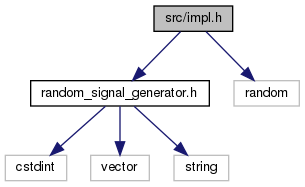
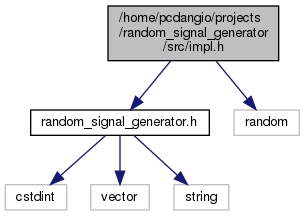
doc/utilities/random_signal_generator: updated documentation

diff --git a/doc/utilities/random_signal_generator/random__signal__generator_8h_source.html b/doc/utilities/random_signal_generator/random__signal__generator_8h_source.html
@@ -5,7 +5,7 @@
 <meta http-equiv="X-UA-Compatible" content="IE=9"/>
 <meta name="generator" content="Doxygen 1.8.13"/>
 <meta name="viewport" content="width=device-width, initial-scale=1"/>
-<title>random_signal_generator: include/random_signal_generator.h Source File</title>
+<title>random_signal_generator: /home/pcdangio/projects/random_signal_generator/include/random_signal_generator.h Source File</title>
 <link href="tabs.css" rel="stylesheet" type="text/css"/>
 <script type="text/javascript" src="jquery.js"></script>
 <script type="text/javascript" src="dynsections.js"></script>
@@ -67,15 +67,15 @@ $(function() {
 <div class="title">random_signal_generator.h</div>  </div>
 </div><!--header-->
 <div class="contents">
-<a href="random__signal__generator_8h.html">Go to the documentation of this file.</a><div class="fragment"><div class="line"><a name="l00001"></a><span class="lineno">    1</span>&#160;<span class="preprocessor">#ifndef RANDOM_SIGNAL_GENERATOR_H</span></div><div class="line"><a name="l00004"></a><span class="lineno">    4</span>&#160;<span class="preprocessor">#define RANDOM_SIGNAL_GENERATOR_H</span></div><div class="line"><a name="l00005"></a><span class="lineno">    5</span>&#160;</div><div class="line"><a name="l00006"></a><span class="lineno">    6</span>&#160;<span class="preprocessor">#include &lt;cstdint&gt;</span></div><div class="line"><a name="l00007"></a><span class="lineno">    7</span>&#160;<span class="preprocessor">#include &lt;vector&gt;</span></div><div class="line"><a name="l00008"></a><span class="lineno">    8</span>&#160;<span class="preprocessor">#include &lt;string&gt;</span></div><div class="line"><a name="l00009"></a><span class="lineno">    9</span>&#160;</div><div class="line"><a name="l00011"></a><span class="lineno"><a class="line" href="namespacepcd.html">   11</a></span>&#160;<span class="keyword">namespace </span><a class="code" href="namespacepcd.html">pcd</a></div><div class="line"><a name="l00012"></a><span class="lineno">   12</span>&#160;{</div><div class="line"><a name="l00014"></a><span class="lineno"><a class="line" href="classpcd_1_1random__signal__generator.html">   14</a></span>&#160;<span class="keyword">class </span><a class="code" href="classpcd_1_1random__signal__generator.html">random_signal_generator</a></div><div class="line"><a name="l00015"></a><span class="lineno">   15</span>&#160;{</div><div class="line"><a name="l00016"></a><span class="lineno">   16</span>&#160;<span class="keyword">public</span>:</div><div class="line"><a name="l00017"></a><span class="lineno">   17</span>&#160;</div><div class="line"><a name="l00018"></a><span class="lineno">   18</span>&#160;    <span class="comment">// PARAMETERS</span></div><div class="line"><a name="l00019"></a><span class="lineno">   19</span>&#160;</div><div class="line"><a name="l00021"></a><span class="lineno"><a class="line" href="classpcd_1_1random__signal__generator.html#a72b79fe1fa6629b4c9f112ca4c0c5adb">   21</a></span>&#160;    uint32_t <a class="code" href="classpcd_1_1random__signal__generator.html#a72b79fe1fa6629b4c9f112ca4c0c5adb">n_points</a>;</div><div class="line"><a name="l00023"></a><span class="lineno"><a class="line" href="classpcd_1_1random__signal__generator.html#ac9f278893e8ac166b1195dc0b88fa214">   23</a></span>&#160;    <span class="keywordtype">double</span> <a class="code" href="classpcd_1_1random__signal__generator.html#ac9f278893e8ac166b1195dc0b88fa214">desired_mean</a>;</div><div class="line"><a name="l00025"></a><span class="lineno"><a class="line" href="classpcd_1_1random__signal__generator.html#ac438e14a9e10648e30a98662c814f1d5">   25</a></span>&#160;    <span class="keywordtype">double</span> <a class="code" href="classpcd_1_1random__signal__generator.html#ac438e14a9e10648e30a98662c814f1d5">desired_standard_deviation</a>;</div><div class="line"><a name="l00027"></a><span class="lineno"><a class="line" href="classpcd_1_1random__signal__generator.html#af1839a297aafcece6adab1efe81999ac">   27</a></span>&#160;    uint8_t <a class="code" href="classpcd_1_1random__signal__generator.html#af1839a297aafcece6adab1efe81999ac">n_bases</a>;</div><div class="line"><a name="l00029"></a><span class="lineno"><a class="line" href="classpcd_1_1random__signal__generator.html#a78a4762d5bf43d8f3f0c4a3fcfa04462">   29</a></span>&#160;    <span class="keywordtype">double</span> <a class="code" href="classpcd_1_1random__signal__generator.html#a78a4762d5bf43d8f3f0c4a3fcfa04462">max_frequency</a>;</div><div class="line"><a name="l00031"></a><span class="lineno"><a class="line" href="classpcd_1_1random__signal__generator.html#a02af14e08f59f68d413a6d714f734a41">   31</a></span>&#160;    <span class="keywordtype">double</span> <a class="code" href="classpcd_1_1random__signal__generator.html#a02af14e08f59f68d413a6d714f734a41">noise_percentage</a>;</div><div class="line"><a name="l00032"></a><span class="lineno">   32</span>&#160;</div><div class="line"><a name="l00033"></a><span class="lineno">   33</span>&#160;</div><div class="line"><a name="l00034"></a><span class="lineno">   34</span>&#160;    <span class="comment">// CONSTRUCTORS</span></div><div class="line"><a name="l00035"></a><span class="lineno">   35</span>&#160;</div><div class="line"><a name="l00040"></a><span class="lineno">   40</span>&#160;    <a class="code" href="classpcd_1_1random__signal__generator.html#ab622fc29b1a168cf5d376de07e89d091">random_signal_generator</a>(uint32_t n_points, <span class="keywordtype">double</span> desired_mean, <span class="keywordtype">double</span> desired_standard_deviation);</div><div class="line"><a name="l00041"></a><span class="lineno">   41</span>&#160;    ~<a class="code" href="classpcd_1_1random__signal__generator.html">random_signal_generator</a>();</div><div class="line"><a name="l00042"></a><span class="lineno">   42</span>&#160;</div><div class="line"><a name="l00043"></a><span class="lineno">   43</span>&#160;</div><div class="line"><a name="l00044"></a><span class="lineno">   44</span>&#160;    <span class="comment">// METHODS</span></div><div class="line"><a name="l00045"></a><span class="lineno">   45</span>&#160;</div><div class="line"><a name="l00048"></a><span class="lineno">   48</span>&#160;    <span class="keywordtype">void</span> <a class="code" href="classpcd_1_1random__signal__generator.html#a4b47cf1bd4b0388fc4825d8bb2613e71">generate</a>(std::vector&lt;double&gt;&amp; signal);</div><div class="line"><a name="l00049"></a><span class="lineno">   49</span>&#160;</div><div class="line"><a name="l00050"></a><span class="lineno">   50</span>&#160;<span class="keyword">private</span>:</div><div class="line"><a name="l00051"></a><span class="lineno">   51</span>&#160;    <span class="keyword">class </span><a class="code" href="classpcd_1_1random__signal__generator_1_1impl.html">impl</a>;</div><div class="line"><a name="l00052"></a><span class="lineno">   52</span>&#160;    <a class="code" href="classpcd_1_1random__signal__generator_1_1impl.html">impl</a>* pimpl;</div><div class="line"><a name="l00053"></a><span class="lineno">   53</span>&#160;};</div><div class="line"><a name="l00054"></a><span class="lineno">   54</span>&#160;</div><div class="line"><a name="l00055"></a><span class="lineno">   55</span>&#160;}</div><div class="line"><a name="l00056"></a><span class="lineno">   56</span>&#160;</div><div class="line"><a name="l00057"></a><span class="lineno">   57</span>&#160;<span class="preprocessor">#endif</span></div><div class="ttc" id="classpcd_1_1random__signal__generator_html_af1839a297aafcece6adab1efe81999ac"><div class="ttname"><a href="classpcd_1_1random__signal__generator.html#af1839a297aafcece6adab1efe81999ac">pcd::random_signal_generator::n_bases</a></div><div class="ttdeci">uint8_t n_bases</div><div class="ttdoc">The number of basis vectors used to create the signal. </div><div class="ttdef"><b>Definition:</b> random_signal_generator.h:27</div></div>
+<a href="random__signal__generator_8h.html">Go to the documentation of this file.</a><div class="fragment"><div class="line"><a name="l00001"></a><span class="lineno">    1</span>&#160;<span class="preprocessor">#ifndef RANDOM_SIGNAL_GENERATOR_H</span></div><div class="line"><a name="l00004"></a><span class="lineno">    4</span>&#160;<span class="preprocessor">#define RANDOM_SIGNAL_GENERATOR_H</span></div><div class="line"><a name="l00005"></a><span class="lineno">    5</span>&#160;</div><div class="line"><a name="l00006"></a><span class="lineno">    6</span>&#160;<span class="preprocessor">#include &lt;cstdint&gt;</span></div><div class="line"><a name="l00007"></a><span class="lineno">    7</span>&#160;<span class="preprocessor">#include &lt;vector&gt;</span></div><div class="line"><a name="l00008"></a><span class="lineno">    8</span>&#160;<span class="preprocessor">#include &lt;string&gt;</span></div><div class="line"><a name="l00009"></a><span class="lineno">    9</span>&#160;</div><div class="line"><a name="l00011"></a><span class="lineno"><a class="line" href="namespacepcd.html">   11</a></span>&#160;<span class="keyword">namespace </span><a class="code" href="namespacepcd.html">pcd</a></div><div class="line"><a name="l00012"></a><span class="lineno">   12</span>&#160;{</div><div class="line"><a name="l00014"></a><span class="lineno"><a class="line" href="classpcd_1_1random__signal__generator.html">   14</a></span>&#160;<span class="keyword">class </span><a class="code" href="classpcd_1_1random__signal__generator.html">random_signal_generator</a></div><div class="line"><a name="l00015"></a><span class="lineno">   15</span>&#160;{</div><div class="line"><a name="l00016"></a><span class="lineno">   16</span>&#160;<span class="keyword">public</span>:</div><div class="line"><a name="l00017"></a><span class="lineno">   17</span>&#160;</div><div class="line"><a name="l00018"></a><span class="lineno">   18</span>&#160;    <span class="comment">// PARAMETERS</span></div><div class="line"><a name="l00019"></a><span class="lineno">   19</span>&#160;</div><div class="line"><a name="l00022"></a><span class="lineno"><a class="line" href="classpcd_1_1random__signal__generator.html#a72b79fe1fa6629b4c9f112ca4c0c5adb">   22</a></span>&#160;    uint32_t <a class="code" href="classpcd_1_1random__signal__generator.html#a72b79fe1fa6629b4c9f112ca4c0c5adb">n_points</a>;</div><div class="line"><a name="l00025"></a><span class="lineno"><a class="line" href="classpcd_1_1random__signal__generator.html#ac9f278893e8ac166b1195dc0b88fa214">   25</a></span>&#160;    <span class="keywordtype">double</span> <a class="code" href="classpcd_1_1random__signal__generator.html#ac9f278893e8ac166b1195dc0b88fa214">desired_mean</a>;</div><div class="line"><a name="l00028"></a><span class="lineno"><a class="line" href="classpcd_1_1random__signal__generator.html#ac438e14a9e10648e30a98662c814f1d5">   28</a></span>&#160;    <span class="keywordtype">double</span> <a class="code" href="classpcd_1_1random__signal__generator.html#ac438e14a9e10648e30a98662c814f1d5">desired_standard_deviation</a>;</div><div class="line"><a name="l00032"></a><span class="lineno"><a class="line" href="classpcd_1_1random__signal__generator.html#af1839a297aafcece6adab1efe81999ac">   32</a></span>&#160;    uint8_t <a class="code" href="classpcd_1_1random__signal__generator.html#af1839a297aafcece6adab1efe81999ac">n_bases</a>;</div><div class="line"><a name="l00035"></a><span class="lineno"><a class="line" href="classpcd_1_1random__signal__generator.html#a78a4762d5bf43d8f3f0c4a3fcfa04462">   35</a></span>&#160;    <span class="keywordtype">double</span> <a class="code" href="classpcd_1_1random__signal__generator.html#a78a4762d5bf43d8f3f0c4a3fcfa04462">max_frequency</a>;</div><div class="line"><a name="l00038"></a><span class="lineno"><a class="line" href="classpcd_1_1random__signal__generator.html#a02af14e08f59f68d413a6d714f734a41">   38</a></span>&#160;    <span class="keywordtype">double</span> <a class="code" href="classpcd_1_1random__signal__generator.html#a02af14e08f59f68d413a6d714f734a41">noise_percentage</a>;</div><div class="line"><a name="l00039"></a><span class="lineno">   39</span>&#160;</div><div class="line"><a name="l00040"></a><span class="lineno">   40</span>&#160;</div><div class="line"><a name="l00041"></a><span class="lineno">   41</span>&#160;    <span class="comment">// CONSTRUCTORS</span></div><div class="line"><a name="l00042"></a><span class="lineno">   42</span>&#160;</div><div class="line"><a name="l00047"></a><span class="lineno">   47</span>&#160;    <a class="code" href="classpcd_1_1random__signal__generator.html#ab622fc29b1a168cf5d376de07e89d091">random_signal_generator</a>(uint32_t n_points, <span class="keywordtype">double</span> desired_mean, <span class="keywordtype">double</span> desired_standard_deviation);</div><div class="line"><a name="l00048"></a><span class="lineno">   48</span>&#160;    ~<a class="code" href="classpcd_1_1random__signal__generator.html">random_signal_generator</a>();</div><div class="line"><a name="l00049"></a><span class="lineno">   49</span>&#160;</div><div class="line"><a name="l00050"></a><span class="lineno">   50</span>&#160;</div><div class="line"><a name="l00051"></a><span class="lineno">   51</span>&#160;    <span class="comment">// METHODS</span></div><div class="line"><a name="l00052"></a><span class="lineno">   52</span>&#160;</div><div class="line"><a name="l00055"></a><span class="lineno">   55</span>&#160;    <span class="keywordtype">void</span> <a class="code" href="classpcd_1_1random__signal__generator.html#a4b47cf1bd4b0388fc4825d8bb2613e71">generate</a>(std::vector&lt;double&gt;&amp; signal);</div><div class="line"><a name="l00056"></a><span class="lineno">   56</span>&#160;</div><div class="line"><a name="l00057"></a><span class="lineno">   57</span>&#160;<span class="keyword">private</span>:</div><div class="line"><a name="l00058"></a><span class="lineno">   58</span>&#160;    <span class="keyword">class </span><a class="code" href="classpcd_1_1random__signal__generator_1_1impl.html">impl</a>;</div><div class="line"><a name="l00059"></a><span class="lineno">   59</span>&#160;    <a class="code" href="classpcd_1_1random__signal__generator_1_1impl.html">impl</a>* pimpl;</div><div class="line"><a name="l00060"></a><span class="lineno">   60</span>&#160;};</div><div class="line"><a name="l00061"></a><span class="lineno">   61</span>&#160;</div><div class="line"><a name="l00062"></a><span class="lineno">   62</span>&#160;}</div><div class="line"><a name="l00063"></a><span class="lineno">   63</span>&#160;</div><div class="line"><a name="l00064"></a><span class="lineno">   64</span>&#160;<span class="preprocessor">#endif</span></div><div class="ttc" id="classpcd_1_1random__signal__generator_html_af1839a297aafcece6adab1efe81999ac"><div class="ttname"><a href="classpcd_1_1random__signal__generator.html#af1839a297aafcece6adab1efe81999ac">pcd::random_signal_generator::n_bases</a></div><div class="ttdeci">uint8_t n_bases</div><div class="ttdoc">(OPTIONAL) The number of basis vectors used to create the signal. DEFAULT = 50 </div><div class="ttdef"><b>Definition:</b> random_signal_generator.h:32</div></div>
 <div class="ttc" id="classpcd_1_1random__signal__generator_html"><div class="ttname"><a href="classpcd_1_1random__signal__generator.html">pcd::random_signal_generator</a></div><div class="ttdoc">A class for generating random signals. </div><div class="ttdef"><b>Definition:</b> random_signal_generator.h:14</div></div>
 <div class="ttc" id="classpcd_1_1random__signal__generator_html_a4b47cf1bd4b0388fc4825d8bb2613e71"><div class="ttname"><a href="classpcd_1_1random__signal__generator.html#a4b47cf1bd4b0388fc4825d8bb2613e71">pcd::random_signal_generator::generate</a></div><div class="ttdeci">void generate(std::vector&lt; double &gt; &amp;signal)</div><div class="ttdoc">Generates a new randomized signal with the currently set parameters. </div><div class="ttdef"><b>Definition:</b> random_signal_generator.cpp:31</div></div>
 <div class="ttc" id="classpcd_1_1random__signal__generator_1_1impl_html"><div class="ttname"><a href="classpcd_1_1random__signal__generator_1_1impl.html">pcd::random_signal_generator::impl</a></div><div class="ttdoc">The private implementation class for the random_signal_generator. </div><div class="ttdef"><b>Definition:</b> impl.h:11</div></div>
-<div class="ttc" id="classpcd_1_1random__signal__generator_html_ac438e14a9e10648e30a98662c814f1d5"><div class="ttname"><a href="classpcd_1_1random__signal__generator.html#ac438e14a9e10648e30a98662c814f1d5">pcd::random_signal_generator::desired_standard_deviation</a></div><div class="ttdeci">double desired_standard_deviation</div><div class="ttdoc">The desired standard deviation of the signal. </div><div class="ttdef"><b>Definition:</b> random_signal_generator.h:25</div></div>
-<div class="ttc" id="classpcd_1_1random__signal__generator_html_a78a4762d5bf43d8f3f0c4a3fcfa04462"><div class="ttname"><a href="classpcd_1_1random__signal__generator.html#a78a4762d5bf43d8f3f0c4a3fcfa04462">pcd::random_signal_generator::max_frequency</a></div><div class="ttdeci">double max_frequency</div><div class="ttdoc">The maximum frequency of the signal&amp;#39;s content. </div><div class="ttdef"><b>Definition:</b> random_signal_generator.h:29</div></div>
-<div class="ttc" id="classpcd_1_1random__signal__generator_html_a02af14e08f59f68d413a6d714f734a41"><div class="ttname"><a href="classpcd_1_1random__signal__generator.html#a02af14e08f59f68d413a6d714f734a41">pcd::random_signal_generator::noise_percentage</a></div><div class="ttdeci">double noise_percentage</div><div class="ttdoc">The amount of noise to superimpose on the signal, in percentage of the standard deviation. </div><div class="ttdef"><b>Definition:</b> random_signal_generator.h:31</div></div>
-<div class="ttc" id="classpcd_1_1random__signal__generator_html_ac9f278893e8ac166b1195dc0b88fa214"><div class="ttname"><a href="classpcd_1_1random__signal__generator.html#ac9f278893e8ac166b1195dc0b88fa214">pcd::random_signal_generator::desired_mean</a></div><div class="ttdeci">double desired_mean</div><div class="ttdoc">The desired mean of the signal. </div><div class="ttdef"><b>Definition:</b> random_signal_generator.h:23</div></div>
-<div class="ttc" id="classpcd_1_1random__signal__generator_html_a72b79fe1fa6629b4c9f112ca4c0c5adb"><div class="ttname"><a href="classpcd_1_1random__signal__generator.html#a72b79fe1fa6629b4c9f112ca4c0c5adb">pcd::random_signal_generator::n_points</a></div><div class="ttdeci">uint32_t n_points</div><div class="ttdoc">The number of points to create for the signal. </div><div class="ttdef"><b>Definition:</b> random_signal_generator.h:21</div></div>
+<div class="ttc" id="classpcd_1_1random__signal__generator_html_ac438e14a9e10648e30a98662c814f1d5"><div class="ttname"><a href="classpcd_1_1random__signal__generator.html#ac438e14a9e10648e30a98662c814f1d5">pcd::random_signal_generator::desired_standard_deviation</a></div><div class="ttdeci">double desired_standard_deviation</div><div class="ttdoc">The desired standard deviation of the signal. </div><div class="ttdef"><b>Definition:</b> random_signal_generator.h:28</div></div>
+<div class="ttc" id="classpcd_1_1random__signal__generator_html_a78a4762d5bf43d8f3f0c4a3fcfa04462"><div class="ttname"><a href="classpcd_1_1random__signal__generator.html#a78a4762d5bf43d8f3f0c4a3fcfa04462">pcd::random_signal_generator::max_frequency</a></div><div class="ttdeci">double max_frequency</div><div class="ttdoc">(OPTIONAL) The maximum frequency of the signal&amp;#39;s content, in Hz. DEFAULT = 10.0 </div><div class="ttdef"><b>Definition:</b> random_signal_generator.h:35</div></div>
+<div class="ttc" id="classpcd_1_1random__signal__generator_html_a02af14e08f59f68d413a6d714f734a41"><div class="ttname"><a href="classpcd_1_1random__signal__generator.html#a02af14e08f59f68d413a6d714f734a41">pcd::random_signal_generator::noise_percentage</a></div><div class="ttdeci">double noise_percentage</div><div class="ttdoc">(OPTIONAL) The amount of noise to superimpose on the signal, in percentage of the desired standard de...</div><div class="ttdef"><b>Definition:</b> random_signal_generator.h:38</div></div>
+<div class="ttc" id="classpcd_1_1random__signal__generator_html_ac9f278893e8ac166b1195dc0b88fa214"><div class="ttname"><a href="classpcd_1_1random__signal__generator.html#ac9f278893e8ac166b1195dc0b88fa214">pcd::random_signal_generator::desired_mean</a></div><div class="ttdeci">double desired_mean</div><div class="ttdoc">The desired mean of the signal. </div><div class="ttdef"><b>Definition:</b> random_signal_generator.h:25</div></div>
+<div class="ttc" id="classpcd_1_1random__signal__generator_html_a72b79fe1fa6629b4c9f112ca4c0c5adb"><div class="ttname"><a href="classpcd_1_1random__signal__generator.html#a72b79fe1fa6629b4c9f112ca4c0c5adb">pcd::random_signal_generator::n_points</a></div><div class="ttdeci">uint32_t n_points</div><div class="ttdoc">The number of points to create for the signal. </div><div class="ttdef"><b>Definition:</b> random_signal_generator.h:22</div></div>
 <div class="ttc" id="classpcd_1_1random__signal__generator_html_ab622fc29b1a168cf5d376de07e89d091"><div class="ttname"><a href="classpcd_1_1random__signal__generator.html#ab622fc29b1a168cf5d376de07e89d091">pcd::random_signal_generator::random_signal_generator</a></div><div class="ttdeci">random_signal_generator(uint32_t n_points, double desired_mean, double desired_standard_deviation)</div><div class="ttdoc">Instantiates a new random_signal_generator. </div><div class="ttdef"><b>Definition:</b> random_signal_generator.cpp:9</div></div>
 <div class="ttc" id="namespacepcd_html"><div class="ttname"><a href="namespacepcd.html">pcd</a></div><div class="ttdoc">Includes all PCD software. </div><div class="ttdef"><b>Definition:</b> random_signal_generator.h:11</div></div>
 </div><!-- fragment --></div><!-- contents -->

diff --git a/doc/utilities/random_signal_generator/classpcd_1_1random__signal__generator.html b/doc/utilities/random_signal_generator/classpcd_1_1random__signal__generator.html
@@ -95,29 +95,23 @@ Public Member Functions</h2></td></tr>
 </table><table class="memberdecls">
 <tr class="heading"><td colspan="2"><h2 class="groupheader"><a name="pub-attribs"></a>
 Public Attributes</h2></td></tr>
-<tr class="memitem:a72b79fe1fa6629b4c9f112ca4c0c5adb"><td class="memItemLeft" align="right" valign="top"><a id="a72b79fe1fa6629b4c9f112ca4c0c5adb"></a>
-uint32_t&#160;</td><td class="memItemRight" valign="bottom"><a class="el" href="classpcd_1_1random__signal__generator.html#a72b79fe1fa6629b4c9f112ca4c0c5adb">n_points</a></td></tr>
-<tr class="memdesc:a72b79fe1fa6629b4c9f112ca4c0c5adb"><td class="mdescLeft">&#160;</td><td class="mdescRight">The number of points to create for the signal. <br /></td></tr>
+<tr class="memitem:a72b79fe1fa6629b4c9f112ca4c0c5adb"><td class="memItemLeft" align="right" valign="top">uint32_t&#160;</td><td class="memItemRight" valign="bottom"><a class="el" href="classpcd_1_1random__signal__generator.html#a72b79fe1fa6629b4c9f112ca4c0c5adb">n_points</a></td></tr>
+<tr class="memdesc:a72b79fe1fa6629b4c9f112ca4c0c5adb"><td class="mdescLeft">&#160;</td><td class="mdescRight">The number of points to create for the signal.  <a href="#a72b79fe1fa6629b4c9f112ca4c0c5adb">More...</a><br /></td></tr>
 <tr class="separator:a72b79fe1fa6629b4c9f112ca4c0c5adb"><td class="memSeparator" colspan="2">&#160;</td></tr>
-<tr class="memitem:ac9f278893e8ac166b1195dc0b88fa214"><td class="memItemLeft" align="right" valign="top"><a id="ac9f278893e8ac166b1195dc0b88fa214"></a>
-double&#160;</td><td class="memItemRight" valign="bottom"><a class="el" href="classpcd_1_1random__signal__generator.html#ac9f278893e8ac166b1195dc0b88fa214">desired_mean</a></td></tr>
-<tr class="memdesc:ac9f278893e8ac166b1195dc0b88fa214"><td class="mdescLeft">&#160;</td><td class="mdescRight">The desired mean of the signal. <br /></td></tr>
+<tr class="memitem:ac9f278893e8ac166b1195dc0b88fa214"><td class="memItemLeft" align="right" valign="top">double&#160;</td><td class="memItemRight" valign="bottom"><a class="el" href="classpcd_1_1random__signal__generator.html#ac9f278893e8ac166b1195dc0b88fa214">desired_mean</a></td></tr>
+<tr class="memdesc:ac9f278893e8ac166b1195dc0b88fa214"><td class="mdescLeft">&#160;</td><td class="mdescRight">The desired mean of the signal.  <a href="#ac9f278893e8ac166b1195dc0b88fa214">More...</a><br /></td></tr>
 <tr class="separator:ac9f278893e8ac166b1195dc0b88fa214"><td class="memSeparator" colspan="2">&#160;</td></tr>
-<tr class="memitem:ac438e14a9e10648e30a98662c814f1d5"><td class="memItemLeft" align="right" valign="top"><a id="ac438e14a9e10648e30a98662c814f1d5"></a>
-double&#160;</td><td class="memItemRight" valign="bottom"><a class="el" href="classpcd_1_1random__signal__generator.html#ac438e14a9e10648e30a98662c814f1d5">desired_standard_deviation</a></td></tr>
-<tr class="memdesc:ac438e14a9e10648e30a98662c814f1d5"><td class="mdescLeft">&#160;</td><td class="mdescRight">The desired standard deviation of the signal. <br /></td></tr>
+<tr class="memitem:ac438e14a9e10648e30a98662c814f1d5"><td class="memItemLeft" align="right" valign="top">double&#160;</td><td class="memItemRight" valign="bottom"><a class="el" href="classpcd_1_1random__signal__generator.html#ac438e14a9e10648e30a98662c814f1d5">desired_standard_deviation</a></td></tr>
+<tr class="memdesc:ac438e14a9e10648e30a98662c814f1d5"><td class="mdescLeft">&#160;</td><td class="mdescRight">The desired standard deviation of the signal.  <a href="#ac438e14a9e10648e30a98662c814f1d5">More...</a><br /></td></tr>
 <tr class="separator:ac438e14a9e10648e30a98662c814f1d5"><td class="memSeparator" colspan="2">&#160;</td></tr>
-<tr class="memitem:af1839a297aafcece6adab1efe81999ac"><td class="memItemLeft" align="right" valign="top"><a id="af1839a297aafcece6adab1efe81999ac"></a>
-uint8_t&#160;</td><td class="memItemRight" valign="bottom"><a class="el" href="classpcd_1_1random__signal__generator.html#af1839a297aafcece6adab1efe81999ac">n_bases</a></td></tr>
-<tr class="memdesc:af1839a297aafcece6adab1efe81999ac"><td class="mdescLeft">&#160;</td><td class="mdescRight">The number of basis vectors used to create the signal. <br /></td></tr>
+<tr class="memitem:af1839a297aafcece6adab1efe81999ac"><td class="memItemLeft" align="right" valign="top">uint8_t&#160;</td><td class="memItemRight" valign="bottom"><a class="el" href="classpcd_1_1random__signal__generator.html#af1839a297aafcece6adab1efe81999ac">n_bases</a></td></tr>
+<tr class="memdesc:af1839a297aafcece6adab1efe81999ac"><td class="mdescLeft">&#160;</td><td class="mdescRight">(OPTIONAL) The number of basis vectors used to create the signal. DEFAULT = 50  <a href="#af1839a297aafcece6adab1efe81999ac">More...</a><br /></td></tr>
 <tr class="separator:af1839a297aafcece6adab1efe81999ac"><td class="memSeparator" colspan="2">&#160;</td></tr>
-<tr class="memitem:a78a4762d5bf43d8f3f0c4a3fcfa04462"><td class="memItemLeft" align="right" valign="top"><a id="a78a4762d5bf43d8f3f0c4a3fcfa04462"></a>
-double&#160;</td><td class="memItemRight" valign="bottom"><a class="el" href="classpcd_1_1random__signal__generator.html#a78a4762d5bf43d8f3f0c4a3fcfa04462">max_frequency</a></td></tr>
-<tr class="memdesc:a78a4762d5bf43d8f3f0c4a3fcfa04462"><td class="mdescLeft">&#160;</td><td class="mdescRight">The maximum frequency of the signal's content. <br /></td></tr>
+<tr class="memitem:a78a4762d5bf43d8f3f0c4a3fcfa04462"><td class="memItemLeft" align="right" valign="top">double&#160;</td><td class="memItemRight" valign="bottom"><a class="el" href="classpcd_1_1random__signal__generator.html#a78a4762d5bf43d8f3f0c4a3fcfa04462">max_frequency</a></td></tr>
+<tr class="memdesc:a78a4762d5bf43d8f3f0c4a3fcfa04462"><td class="mdescLeft">&#160;</td><td class="mdescRight">(OPTIONAL) The maximum frequency of the signal's content, in Hz. DEFAULT = 10.0  <a href="#a78a4762d5bf43d8f3f0c4a3fcfa04462">More...</a><br /></td></tr>
 <tr class="separator:a78a4762d5bf43d8f3f0c4a3fcfa04462"><td class="memSeparator" colspan="2">&#160;</td></tr>
-<tr class="memitem:a02af14e08f59f68d413a6d714f734a41"><td class="memItemLeft" align="right" valign="top"><a id="a02af14e08f59f68d413a6d714f734a41"></a>
-double&#160;</td><td class="memItemRight" valign="bottom"><a class="el" href="classpcd_1_1random__signal__generator.html#a02af14e08f59f68d413a6d714f734a41">noise_percentage</a></td></tr>
-<tr class="memdesc:a02af14e08f59f68d413a6d714f734a41"><td class="mdescLeft">&#160;</td><td class="mdescRight">The amount of noise to superimpose on the signal, in percentage of the standard deviation. <br /></td></tr>
+<tr class="memitem:a02af14e08f59f68d413a6d714f734a41"><td class="memItemLeft" align="right" valign="top">double&#160;</td><td class="memItemRight" valign="bottom"><a class="el" href="classpcd_1_1random__signal__generator.html#a02af14e08f59f68d413a6d714f734a41">noise_percentage</a></td></tr>
+<tr class="memdesc:a02af14e08f59f68d413a6d714f734a41"><td class="mdescLeft">&#160;</td><td class="mdescRight">(OPTIONAL) The amount of noise to superimpose on the signal, in percentage of the desired standard deviation. DEFAULT = 0.0  <a href="#a02af14e08f59f68d413a6d714f734a41">More...</a><br /></td></tr>
 <tr class="separator:a02af14e08f59f68d413a6d714f734a41"><td class="memSeparator" colspan="2">&#160;</td></tr>
 </table>
 <a name="details" id="details"></a><h2 class="groupheader">Detailed Description</h2>
@@ -194,9 +188,112 @@ double&#160;</td><td class="memItemRight" valign="bottom"><a class="el" href="cl
 
 </div>
 </div>
+<h2 class="groupheader">Member Data Documentation</h2>
+<a id="ac9f278893e8ac166b1195dc0b88fa214"></a>
+<h2 class="memtitle"><span class="permalink"><a href="#ac9f278893e8ac166b1195dc0b88fa214">&#9670;&nbsp;</a></span>desired_mean</h2>
+
+<div class="memitem">
+<div class="memproto">
+      <table class="memname">
+        <tr>
+          <td class="memname">double pcd::random_signal_generator::desired_mean</td>
+        </tr>
+      </table>
+</div><div class="memdoc">
+
+<p>The desired mean of the signal. </p>
+<p>This specifies the average amplitude of the generated signal. </p>
+
+</div>
+</div>
+<a id="ac438e14a9e10648e30a98662c814f1d5"></a>
+<h2 class="memtitle"><span class="permalink"><a href="#ac438e14a9e10648e30a98662c814f1d5">&#9670;&nbsp;</a></span>desired_standard_deviation</h2>
+
+<div class="memitem">
+<div class="memproto">
+      <table class="memname">
+        <tr>
+          <td class="memname">double pcd::random_signal_generator::desired_standard_deviation</td>
+        </tr>
+      </table>
+</div><div class="memdoc">
+
+<p>The desired standard deviation of the signal. </p>
+<p>This specifies the standard deviation of the generated signal's amplitude from desired_mean. </p>
+
+</div>
+</div>
+<a id="a78a4762d5bf43d8f3f0c4a3fcfa04462"></a>
+<h2 class="memtitle"><span class="permalink"><a href="#a78a4762d5bf43d8f3f0c4a3fcfa04462">&#9670;&nbsp;</a></span>max_frequency</h2>
+
+<div class="memitem">
+<div class="memproto">
+      <table class="memname">
+        <tr>
+          <td class="memname">double pcd::random_signal_generator::max_frequency</td>
+        </tr>
+      </table>
+</div><div class="memdoc">
+
+<p>(OPTIONAL) The maximum frequency of the signal's content, in Hz. DEFAULT = 10.0 </p>
+<p>This controls the maximum number of peaks/valleys in the signal over the specified number of points. </p>
+
+</div>
+</div>
+<a id="af1839a297aafcece6adab1efe81999ac"></a>
+<h2 class="memtitle"><span class="permalink"><a href="#af1839a297aafcece6adab1efe81999ac">&#9670;&nbsp;</a></span>n_bases</h2>
+
+<div class="memitem">
+<div class="memproto">
+      <table class="memname">
+        <tr>
+          <td class="memname">uint8_t pcd::random_signal_generator::n_bases</td>
+        </tr>
+      </table>
+</div><div class="memdoc">
+
+<p>(OPTIONAL) The number of basis vectors used to create the signal. DEFAULT = 50 </p>
+<p>This controls the number of random sine waves that are superimposed to create the random signal. More bases increase the complexity of the signal but takes longer to compute. </p>
+
+</div>
+</div>
+<a id="a72b79fe1fa6629b4c9f112ca4c0c5adb"></a>
+<h2 class="memtitle"><span class="permalink"><a href="#a72b79fe1fa6629b4c9f112ca4c0c5adb">&#9670;&nbsp;</a></span>n_points</h2>
+
+<div class="memitem">
+<div class="memproto">
+      <table class="memname">
+        <tr>
+          <td class="memname">uint32_t pcd::random_signal_generator::n_points</td>
+        </tr>
+      </table>
+</div><div class="memdoc">
+
+<p>The number of points to create for the signal. </p>
+<p>This specifies the length of the generated signal as a number of points. </p>
+
+</div>
+</div>
+<a id="a02af14e08f59f68d413a6d714f734a41"></a>
+<h2 class="memtitle"><span class="permalink"><a href="#a02af14e08f59f68d413a6d714f734a41">&#9670;&nbsp;</a></span>noise_percentage</h2>
+
+<div class="memitem">
+<div class="memproto">
+      <table class="memname">
+        <tr>
+          <td class="memname">double pcd::random_signal_generator::noise_percentage</td>
+        </tr>
+      </table>
+</div><div class="memdoc">
+
+<p>(OPTIONAL) The amount of noise to superimpose on the signal, in percentage of the desired standard deviation. DEFAULT = 0.0 </p>
+<p>This enables Gaussian (white) noise to be added to the random signal. </p>
+
+</div>
+</div>
 <hr/>The documentation for this class was generated from the following files:<ul>
-<li>include/<a class="el" href="random__signal__generator_8h_source.html">random_signal_generator.h</a></li>
-<li>src/random_signal_generator.cpp</li>
+<li>/home/pcdangio/projects/random_signal_generator/include/<a class="el" href="random__signal__generator_8h_source.html">random_signal_generator.h</a></li>
+<li>/home/pcdangio/projects/random_signal_generator/src/random_signal_generator.cpp</li>
 </ul>
 </div><!-- contents -->
 <!-- start footer part -->

diff --git a/doc/utilities/random_signal_generator/index.html b/doc/utilities/random_signal_generator/index.html
@@ -64,7 +64,11 @@ $(function() {
 </div><!--header-->
 <div class="contents">
 <div class="textblock"><p>random_signal_generator is a c++ library utility that generates a smooth, random data signal.</p>
-<p>Randomly generated signals are useful data sets for testing and tuning algorithms. Common applications include:</p><ul>
+<div class="image">
+<img src="random_signal.png" alt="random_signal.png"/>
+<div class="caption">
+Figure 1: Example of a random signal generated by the random_signal_generator utility.</div></div>
+<p> Randomly generated signals are useful data sets for testing and tuning algorithms. Common applications include:</p><ul>
 <li>Machine Learning</li>
 <li>Signal Processing</li>
 <li>Control Theory</li>
@@ -96,7 +100,11 @@ $(function() {
 <p>This utility leverages Fourier Composition to generate random signals.</p>
 <p><a href="https://en.wikipedia.org/wiki/Fourier_series">Fourier Series</a> analysis can be used to decompose any periodic signal into an infinite number of sine waves. It then stands that you can use a series of sine waves to compose a new signal. The random_signal_generator library uses this concept to generate pseudo-random signals. The algorithm generates a series of random sine waves, which are then combined into a new signal.</p>
 <p>Random sine waves are calculated by choosing a random amplitude, frequency, and phase offset for each wave. It is important to note that this algorithm differs from standard Fourier Composition in that the sine waves are NOT harmonic. This limitation allows for non-periodic random signals to be generated. Another feature of this algorithm is that lower frequency waves tend to have higher amplitude, which gives more base structure to the generated signal (e.g. rising, falling, etc.).</p>
-<p>Once the random sine waves are generated, they are superimposed (added) together to create the random signal that is output by the utility. </p>
+<p>Once the random sine waves are generated, they are superimposed (added) together to create the random signal that is output by the utility. An example is provided in the image below:</p>
+<div class="image">
+<img src="fourier_composition.png" alt="fourier_composition.png"/>
+<div class="caption">
+Figure 2: A random signal created by the superposition of multiple, random sine waves.</div></div>
 </div></div><!-- contents -->
 <!-- start footer part -->
 <hr class="footer"/><address class="footer"><small>

diff --git a/doc/utilities/random_signal_generator/random__signal__generator_8h.html b/doc/utilities/random_signal_generator/random__signal__generator_8h.html
@@ -5,7 +5,7 @@
 <meta http-equiv="X-UA-Compatible" content="IE=9"/>
 <meta name="generator" content="Doxygen 1.8.13"/>
 <meta name="viewport" content="width=device-width, initial-scale=1"/>
-<title>random_signal_generator: include/random_signal_generator.h File Reference</title>
+<title>random_signal_generator: /home/pcdangio/projects/random_signal_generator/include/random_signal_generator.h File Reference</title>
 <link href="tabs.css" rel="stylesheet" type="text/css"/>
 <script type="text/javascript" src="jquery.js"></script>
 <script type="text/javascript" src="dynsections.js"></script>
@@ -79,14 +79,14 @@ $(function() {
 </div><div class="textblock"><div class="dynheader">
 Include dependency graph for random_signal_generator.h:</div>
 <div class="dyncontent">
-<div class="center"><img src="random__signal__generator_8h__incl.png" border="0" usemap="#include_2random__signal__generator_8h" alt=""/></div>
+<div class="center"><img src="random__signal__generator_8h__incl.png" border="0" usemap="#_2home_2pcdangio_2projects_2random__signal__generator_2include_2random__signal__generator_8h" alt=""/></div>
 </div>
 </div><div class="textblock"><div class="dynheader">
 This graph shows which files directly or indirectly include this file:</div>
 <div class="dyncontent">
-<div class="center"><img src="random__signal__generator_8h__dep__incl.png" border="0" usemap="#include_2random__signal__generator_8hdep" alt=""/></div>
-<map name="include_2random__signal__generator_8hdep" id="include_2random__signal__generator_8hdep">
-<area shape="rect" id="node2" href="impl_8h.html" title="Defines the impl class. " alt="" coords="41,95,120,121"/>
+<div class="center"><img src="random__signal__generator_8h__dep__incl.png" border="0" usemap="#_2home_2pcdangio_2projects_2random__signal__generator_2include_2random__signal__generator_8hdep" alt=""/></div>
+<map name="_2home_2pcdangio_2projects_2random__signal__generator_2include_2random__signal__generator_8hdep" id="_2home_2pcdangio_2projects_2random__signal__generator_2include_2random__signal__generator_8hdep">
+<area shape="rect" id="node2" href="impl_8h.html" title="Defines the impl class. " alt="" coords="33,109,204,165"/>
 </map>
 </div>
 </div>

diff --git a/doc/utilities/random_signal_generator/impl_8h.html b/doc/utilities/random_signal_generator/impl_8h.html
@@ -5,7 +5,7 @@
 <meta http-equiv="X-UA-Compatible" content="IE=9"/>
 <meta name="generator" content="Doxygen 1.8.13"/>
 <meta name="viewport" content="width=device-width, initial-scale=1"/>
-<title>random_signal_generator: src/impl.h File Reference</title>
+<title>random_signal_generator: /home/pcdangio/projects/random_signal_generator/src/impl.h File Reference</title>
 <link href="tabs.css" rel="stylesheet" type="text/css"/>
 <script type="text/javascript" src="jquery.js"></script>
 <script type="text/javascript" src="dynsections.js"></script>
@@ -77,9 +77,9 @@ $(function() {
 </div><div class="textblock"><div class="dynheader">
 Include dependency graph for impl.h:</div>
 <div class="dyncontent">
-<div class="center"><img src="impl_8h__incl.png" border="0" usemap="#src_2impl_8h" alt=""/></div>
-<map name="src_2impl_8h" id="src_2impl_8h">
-<area shape="rect" id="node2" href="random__signal__generator_8h.html" title="Defines the random_signal_generator class. " alt="" coords="31,80,209,107"/>
+<div class="center"><img src="impl_8h__incl.png" border="0" usemap="#_2home_2pcdangio_2projects_2random__signal__generator_2src_2impl_8h" alt=""/></div>
+<map name="_2home_2pcdangio_2projects_2random__signal__generator_2src_2impl_8h" id="_2home_2pcdangio_2projects_2random__signal__generator_2src_2impl_8h">
+<area shape="rect" id="node2" href="random__signal__generator_8h.html" title="Defines the random_signal_generator class. " alt="" coords="31,109,209,136"/>
 </map>
 </div>
 </div>

diff --git a/doc/utilities/random_signal_generator/dir_68267d1309a1af8e8297ef4c3efbcdba.html b/doc/utilities/random_signal_generator/dir_68267d1309a1af8e8297ef4c3efbcdba.html
@@ -5,7 +5,7 @@
 <meta http-equiv="X-UA-Compatible" content="IE=9"/>
 <meta name="generator" content="Doxygen 1.8.13"/>
 <meta name="viewport" content="width=device-width, initial-scale=1"/>
-<title>random_signal_generator: src Directory Reference</title>
+<title>random_signal_generator: /home/pcdangio/projects/random_signal_generator/src Directory Reference</title>
 <link href="tabs.css" rel="stylesheet" type="text/css"/>
 <script type="text/javascript" src="jquery.js"></script>
 <script type="text/javascript" src="dynsections.js"></script>
@@ -70,7 +70,7 @@ $(function() {
 <div class="dynheader">
 Directory dependency graph for src:</div>
 <div class="dyncontent">
-<div class="center"><img src="dir_68267d1309a1af8e8297ef4c3efbcdba_dep.png" border="0" usemap="#dir__68267d1309a1af8e8297ef4c3efbcdba__dep" alt="src"/></div>
+<div class="center"><img src="dir_68267d1309a1af8e8297ef4c3efbcdba_dep.png" border="0" usemap="#dir__68267d1309a1af8e8297ef4c3efbcdba__dep" alt="/home/pcdangio/projects/random_signal_generator/src"/></div>
 <map name="dir__68267d1309a1af8e8297ef4c3efbcdba__dep" id="dir__68267d1309a1af8e8297ef4c3efbcdba__dep">
 <area shape="rect" id="node1" href="dir_68267d1309a1af8e8297ef4c3efbcdba.html" title="src" alt="" coords="5,5,77,53"/>
 <area shape="rect" id="node2" href="dir_d44c64559bbebec7f509842c48db8b23.html" title="include" alt="" coords="5,101,77,149"/>

diff --git a/doc/utilities/random_signal_generator/classpcd_1_1random__signal__generator_1_1impl.html b/doc/utilities/random_signal_generator/classpcd_1_1random__signal__generator_1_1impl.html
@@ -94,8 +94,8 @@ double&#160;</td><td class="memItemRight" valign="bottom"><a class="el" href="cl
 <a name="details" id="details"></a><h2 class="groupheader">Detailed Description</h2>
 <div class="textblock"><p>The private implementation class for the <a class="el" href="classpcd_1_1random__signal__generator.html" title="A class for generating random signals. ">random_signal_generator</a>. </p>
 </div><hr/>The documentation for this class was generated from the following files:<ul>
-<li>src/<a class="el" href="impl_8h_source.html">impl.h</a></li>
-<li>src/impl.cpp</li>
+<li>/home/pcdangio/projects/random_signal_generator/src/<a class="el" href="impl_8h_source.html">impl.h</a></li>
+<li>/home/pcdangio/projects/random_signal_generator/src/impl.cpp</li>
 </ul>
 </div><!-- contents -->
 <!-- start footer part -->

diff --git a/doc/utilities/random_signal_generator/dir_d44c64559bbebec7f509842c48db8b23.html b/doc/utilities/random_signal_generator/dir_d44c64559bbebec7f509842c48db8b23.html
@@ -5,7 +5,7 @@
 <meta http-equiv="X-UA-Compatible" content="IE=9"/>
 <meta name="generator" content="Doxygen 1.8.13"/>
 <meta name="viewport" content="width=device-width, initial-scale=1"/>
-<title>random_signal_generator: include Directory Reference</title>
+<title>random_signal_generator: /home/pcdangio/projects/random_signal_generator/include Directory Reference</title>
 <link href="tabs.css" rel="stylesheet" type="text/css"/>
 <script type="text/javascript" src="jquery.js"></script>
 <script type="text/javascript" src="dynsections.js"></script>

diff --git a/doc/utilities/random_signal_generator/dir_000001_000000.html b/doc/utilities/random_signal_generator/dir_000001_000000.html
@@ -5,7 +5,7 @@
 <meta http-equiv="X-UA-Compatible" content="IE=9"/>
 <meta name="generator" content="Doxygen 1.8.13"/>
 <meta name="viewport" content="width=device-width, initial-scale=1"/>
-<title>random_signal_generator: src -&gt; include Relation</title>
+<title>random_signal_generator: /home/pcdangio/projects/random_signal_generator/src -&gt; include Relation</title>
 <link href="tabs.css" rel="stylesheet" type="text/css"/>
 <script type="text/javascript" src="jquery.js"></script>
 <script type="text/javascript" src="dynsections.js"></script>

diff --git a/doc/utilities/random_signal_generator/impl_8h_source.html b/doc/utilities/random_signal_generator/impl_8h_source.html
@@ -5,7 +5,7 @@
 <meta http-equiv="X-UA-Compatible" content="IE=9"/>
 <meta name="generator" content="Doxygen 1.8.13"/>
 <meta name="viewport" content="width=device-width, initial-scale=1"/>
-<title>random_signal_generator: src/impl.h Source File</title>
+<title>random_signal_generator: /home/pcdangio/projects/random_signal_generator/src/impl.h Source File</title>
 <link href="tabs.css" rel="stylesheet" type="text/css"/>
 <script type="text/javascript" src="jquery.js"></script>
 <script type="text/javascript" src="dynsections.js"></script>
